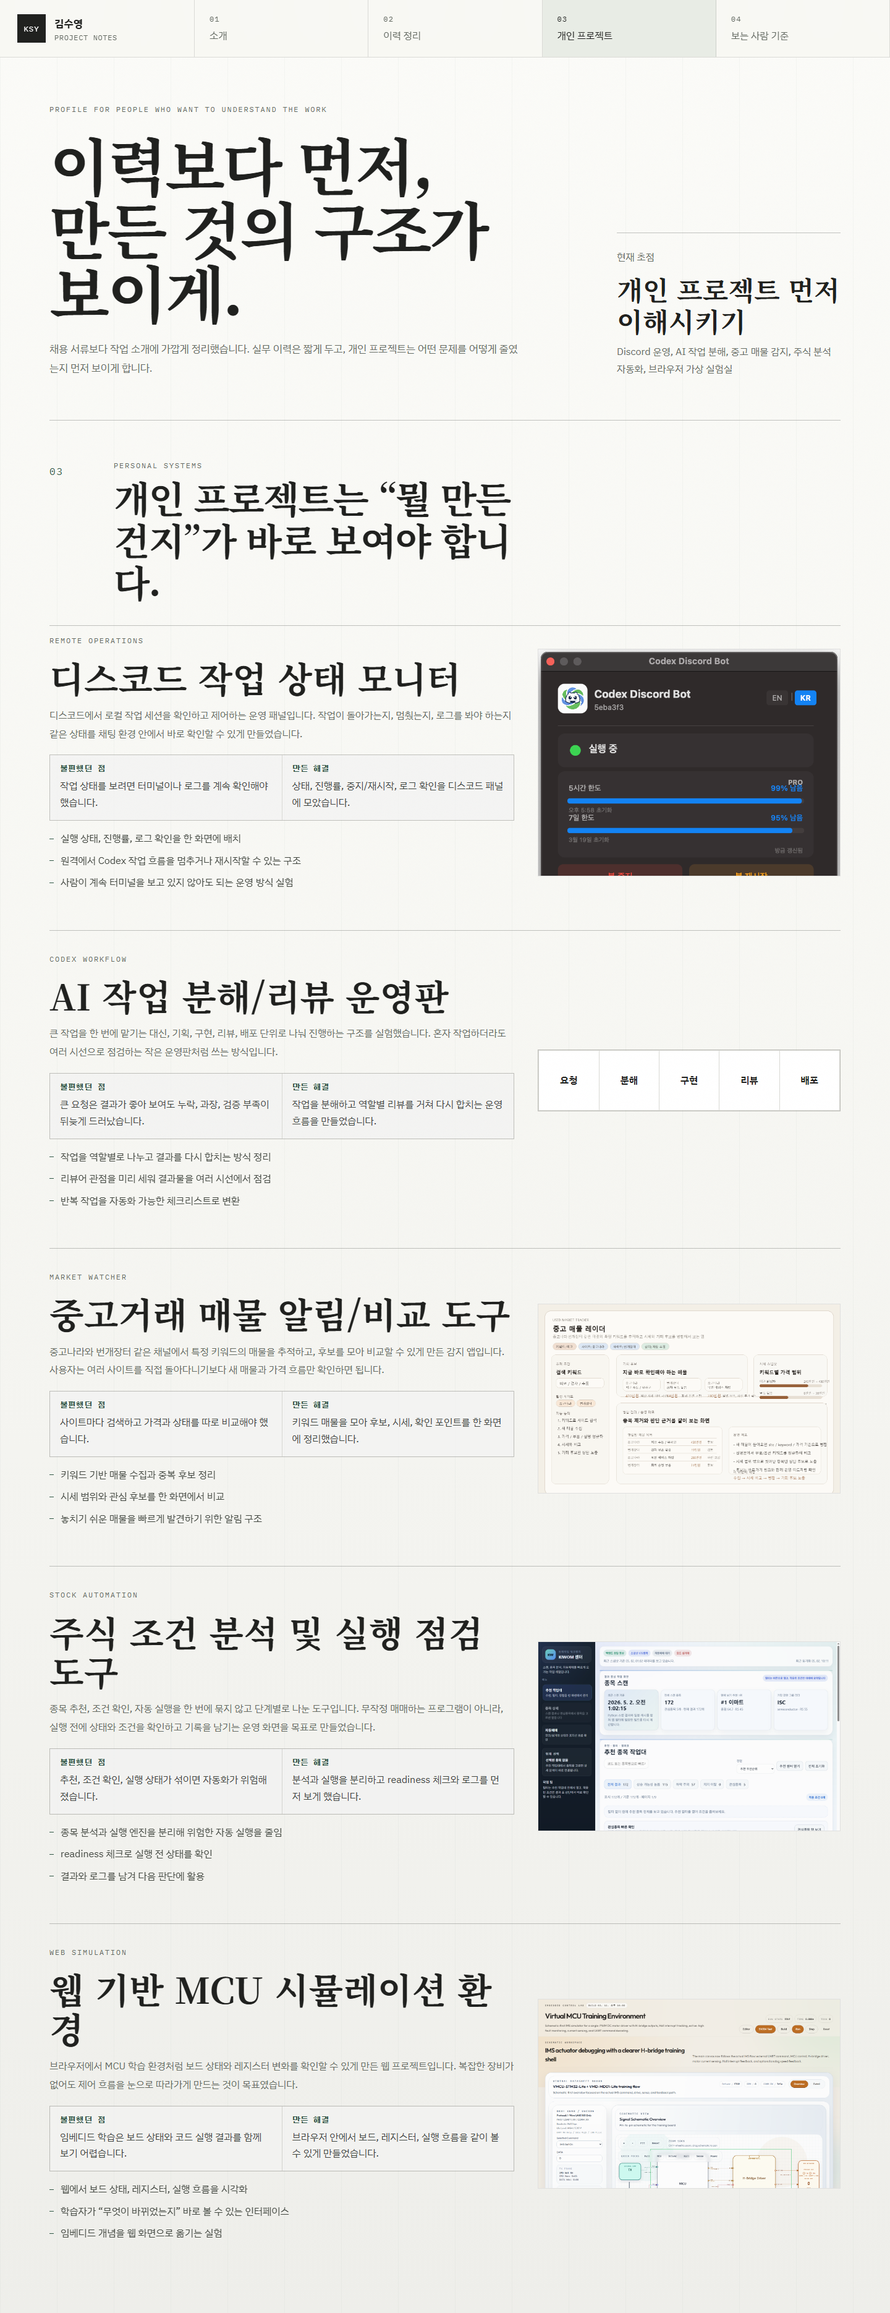
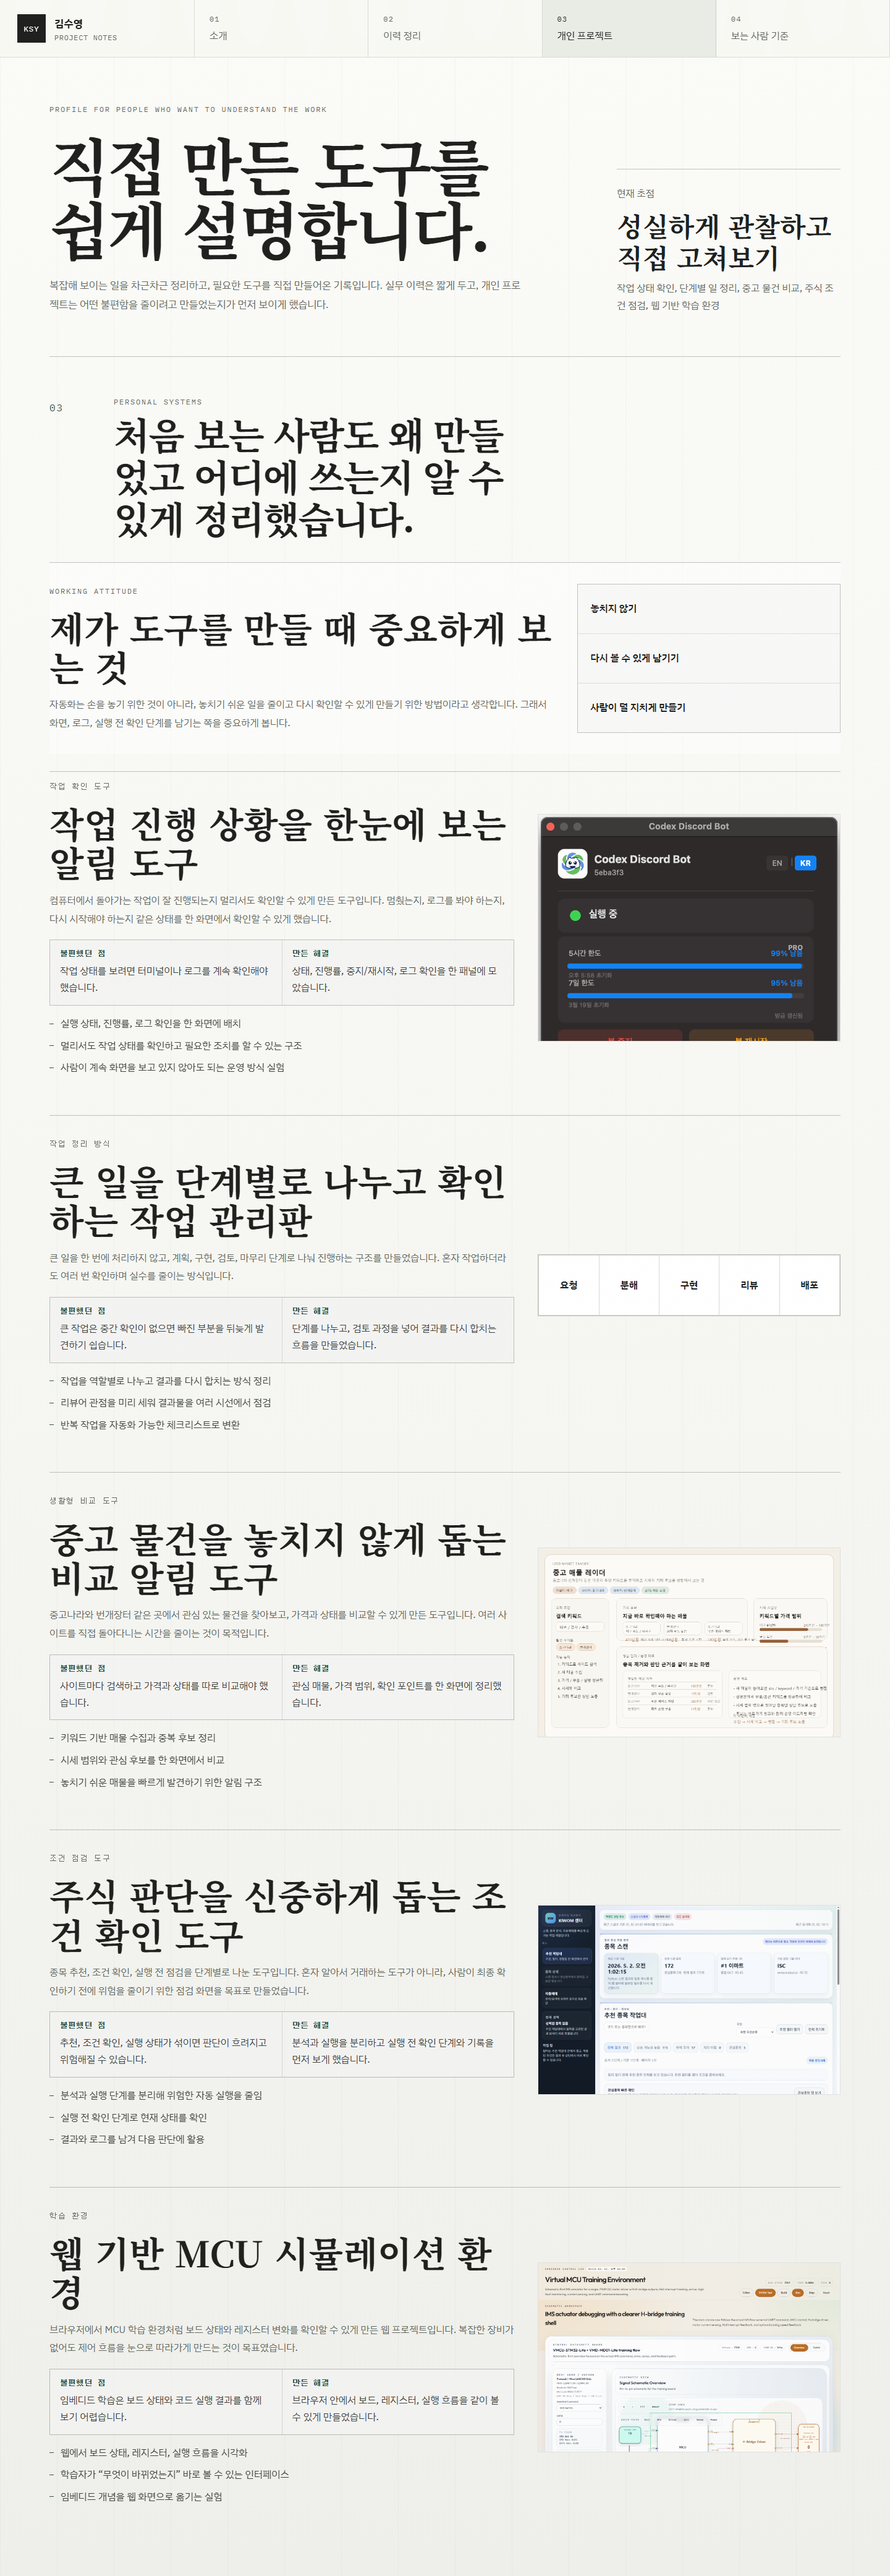
Make project page more family friendly

diff --git a/index.html b/index.html
@@ -11,7 +11,7 @@
     <meta property="og:title" content="김수영 | Project Notes" />
     <meta
       property="og:description"
-      content="이력서가 아니라 작업 소개용 프로필. Discord Agent, Codex 구조 생성, 중고거래 감지, 주식 분석 자동매매, 가상화 웹 개발 프로젝트를 정리했습니다."
+      content="이력서가 아니라 작업 소개용 프로필. 원격 작업 확인, 작업 분해, 중고 매물 비교, 주식 조건 점검, 웹 기반 학습 환경 프로젝트를 정리했습니다."
     />
     <meta property="og:type" content="website" />
     <meta property="og:image" content="./site_preview.png" />
@@ -59,17 +59,17 @@
       <section id="top" class="hero">
         <div class="hero-copy">
           <p class="eyebrow">profile for people who want to understand the work</p>
-          <h1>이력보다 먼저, 만든 것의 구조가 보이게.</h1>
+          <h1>직접 만든 도구를 쉽게 설명합니다.</h1>
           <p>
-            채용 서류보다 작업 소개에 가깝게 정리했습니다. 실무 이력은 짧게 두고, 개인 프로젝트는 어떤 문제를 어떻게 줄였는지 먼저
-            보이게 합니다.
+            복잡해 보이는 일을 차근차근 정리하고, 필요한 도구를 직접 만들어온 기록입니다. 실무 이력은 짧게 두고, 개인 프로젝트는
+            어떤 불편함을 줄이려고 만들었는지가 먼저 보이게 했습니다.
           </p>
         </div>
 
         <aside class="hero-note">
           <p>현재 초점</p>
-          <strong>개인 프로젝트 먼저 이해시키기</strong>
-          <span>Discord 운영, AI 작업 분해, 중고 매물 감지, 주식 분석 자동화, 브라우저 가상 실험실</span>
+          <strong>성실하게 관찰하고 직접 고쳐보기</strong>
+          <span>작업 상태 확인, 단계별 일 정리, 중고 물건 비교, 주식 조건 점검, 웹 기반 학습 환경</span>
         </aside>
       </section>
 
@@ -165,18 +165,34 @@
           <p class="panel-number">03</p>
           <div>
             <p class="eyebrow">personal systems</p>
-            <h2>개인 프로젝트는 “뭘 만든 건지”가 바로 보여야 합니다.</h2>
+            <h2>처음 보는 사람도 왜 만들었고 어디에 쓰는지 알 수 있게 정리했습니다.</h2>
           </div>
         </div>
 
         <div class="project-stack">
+          <article class="project-card values">
+            <div class="project-copy">
+              <p class="project-kicker">working attitude</p>
+              <h3>제가 도구를 만들 때 중요하게 보는 것</h3>
+              <p>
+                자동화는 손을 놓기 위한 것이 아니라, 놓치기 쉬운 일을 줄이고 다시 확인할 수 있게 만들기 위한 방법이라고 생각합니다.
+                그래서 화면, 로그, 실행 전 확인 단계를 남기는 쪽을 중요하게 봅니다.
+              </p>
+            </div>
+            <div class="value-list">
+              <span>놓치지 않기</span>
+              <span>다시 볼 수 있게 남기기</span>
+              <span>사람이 덜 지치게 만들기</span>
+            </div>
+          </article>
+
           <article class="project-card featured">
             <div class="project-copy">
-              <p class="project-kicker">remote operations</p>
-              <h3>디스코드 작업 상태 모니터</h3>
+              <p class="project-kicker">작업 확인 도구</p>
+              <h3>작업 진행 상황을 한눈에 보는 알림 도구</h3>
               <p>
-                디스코드에서 로컬 작업 세션을 확인하고 제어하는 운영 패널입니다. 작업이 돌아가는지, 멈췄는지, 로그를 봐야 하는지 같은
-                상태를 채팅 환경 안에서 바로 확인할 수 있게 만들었습니다.
+                컴퓨터에서 돌아가는 작업이 잘 진행되는지 멀리서도 확인할 수 있게 만든 도구입니다. 멈췄는지, 로그를 봐야 하는지,
+                다시 시작해야 하는지 같은 상태를 한 화면에서 확인할 수 있게 했습니다.
               </p>
               <dl class="proof-list">
                 <div>
@@ -185,36 +201,36 @@
                 </div>
                 <div>
                   <dt>만든 해결</dt>
-                  <dd>상태, 진행률, 중지/재시작, 로그 확인을 디스코드 패널에 모았습니다.</dd>
+                  <dd>상태, 진행률, 중지/재시작, 로그 확인을 한 패널에 모았습니다.</dd>
                 </div>
               </dl>
               <ul>
                 <li>실행 상태, 진행률, 로그 확인을 한 화면에 배치</li>
-                <li>원격에서 Codex 작업 흐름을 멈추거나 재시작할 수 있는 구조</li>
-                <li>사람이 계속 터미널을 보고 있지 않아도 되는 운영 방식 실험</li>
+                <li>멀리서도 작업 상태를 확인하고 필요한 조치를 할 수 있는 구조</li>
+                <li>사람이 계속 화면을 보고 있지 않아도 되는 운영 방식 실험</li>
               </ul>
             </div>
             <figure class="project-visual">
-              <img src="./assets/discord_agent_panel_kr.png" alt="Discord Agent 운영 패널" />
+              <img src="./assets/discord_agent_panel_kr.png" alt="작업 상태 알림 도구 화면" />
             </figure>
           </article>
 
           <article class="project-card">
             <div class="project-copy">
-              <p class="project-kicker">codex workflow</p>
-              <h3>AI 작업 분해/리뷰 운영판</h3>
+              <p class="project-kicker">작업 정리 방식</p>
+              <h3>큰 일을 단계별로 나누고 확인하는 작업 관리판</h3>
               <p>
-                큰 작업을 한 번에 맡기는 대신, 기획, 구현, 리뷰, 배포 단위로 나눠 진행하는 구조를 실험했습니다. 혼자 작업하더라도
-                여러 시선으로 점검하는 작은 운영판처럼 쓰는 방식입니다.
+                큰 일을 한 번에 처리하지 않고, 계획, 구현, 검토, 마무리 단계로 나눠 진행하는 구조를 만들었습니다. 혼자 작업하더라도
+                여러 번 확인하며 실수를 줄이는 방식입니다.
               </p>
               <dl class="proof-list">
                 <div>
                   <dt>불편했던 점</dt>
-                  <dd>큰 요청은 결과가 좋아 보여도 누락, 과장, 검증 부족이 뒤늦게 드러났습니다.</dd>
+                  <dd>큰 작업은 중간 확인이 없으면 빠진 부분을 뒤늦게 발견하기 쉽습니다.</dd>
                 </div>
                 <div>
                   <dt>만든 해결</dt>
-                  <dd>작업을 분해하고 역할별 리뷰를 거쳐 다시 합치는 운영 흐름을 만들었습니다.</dd>
+                  <dd>단계를 나누고, 검토 과정을 넣어 결과를 다시 합치는 흐름을 만들었습니다.</dd>
                 </div>
               </dl>
               <ul>
@@ -223,7 +239,7 @@
                 <li>반복 작업을 자동화 가능한 체크리스트로 변환</li>
               </ul>
             </div>
-            <div class="process-map" aria-label="Codex 작업 구조 예시">
+            <div class="process-map" aria-label="작업 분해와 검토 흐름 예시">
               <span>요청</span>
               <span>분해</span>
               <span>구현</span>
@@ -234,11 +250,11 @@
 
           <article class="project-card">
             <div class="project-copy">
-              <p class="project-kicker">market watcher</p>
-              <h3>중고거래 매물 알림/비교 도구</h3>
+              <p class="project-kicker">생활형 비교 도구</p>
+              <h3>중고 물건을 놓치지 않게 돕는 비교 알림 도구</h3>
               <p>
-                중고나라와 번개장터 같은 채널에서 특정 키워드의 매물을 추적하고, 후보를 모아 비교할 수 있게 만든 감지 앱입니다.
-                사용자는 여러 사이트를 직접 돌아다니기보다 새 매물과 가격 흐름만 확인하면 됩니다.
+                중고나라와 번개장터 같은 곳에서 관심 있는 물건을 찾아보고, 가격과 상태를 비교할 수 있게 만든 도구입니다. 여러 사이트를
+                직접 돌아다니는 시간을 줄이는 것이 목적입니다.
               </p>
               <dl class="proof-list">
                 <div>
@@ -247,7 +263,7 @@
                 </div>
                 <div>
                   <dt>만든 해결</dt>
-                  <dd>키워드 매물을 모아 후보, 시세, 확인 포인트를 한 화면에 정리했습니다.</dd>
+                  <dd>관심 매물, 가격 범위, 확인 포인트를 한 화면에 정리했습니다.</dd>
                 </div>
               </dl>
               <ul>
@@ -263,36 +279,36 @@
 
           <article class="project-card">
             <div class="project-copy">
-              <p class="project-kicker">stock automation</p>
-              <h3>주식 조건 분석 및 실행 점검 도구</h3>
+              <p class="project-kicker">조건 점검 도구</p>
+              <h3>주식 판단을 신중하게 돕는 조건 확인 도구</h3>
               <p>
-                종목 추천, 조건 확인, 자동 실행을 한 번에 묶지 않고 단계별로 나눈 도구입니다. 무작정 매매하는 프로그램이 아니라,
-                실행 전에 상태와 조건을 확인하고 기록을 남기는 운영 화면을 목표로 만들었습니다.
+                종목 추천, 조건 확인, 실행 전 점검을 단계별로 나눈 도구입니다. 혼자 알아서 거래하는 도구가 아니라, 사람이 최종 확인하기 전에
+                위험을 줄이기 위한 점검 화면을 목표로 만들었습니다.
               </p>
               <dl class="proof-list">
                 <div>
                   <dt>불편했던 점</dt>
-                  <dd>추천, 조건 확인, 실행 상태가 섞이면 자동화가 위험해졌습니다.</dd>
+                  <dd>추천, 조건 확인, 실행 상태가 섞이면 판단이 흐려지고 위험해질 수 있습니다.</dd>
                 </div>
                 <div>
                   <dt>만든 해결</dt>
-                  <dd>분석과 실행을 분리하고 readiness 체크와 로그를 먼저 보게 했습니다.</dd>
+                  <dd>분석과 실행을 분리하고 실행 전 확인 단계와 기록을 먼저 보게 했습니다.</dd>
                 </div>
               </dl>
               <ul>
-                <li>종목 분석과 실행 엔진을 분리해 위험한 자동 실행을 줄임</li>
-                <li>readiness 체크로 실행 전 상태를 확인</li>
+                <li>분석과 실행 단계를 분리해 위험한 자동 실행을 줄임</li>
+                <li>실행 전 확인 단계로 현재 상태를 확인</li>
                 <li>결과와 로그를 남겨 다음 판단에 활용</li>
               </ul>
             </div>
             <figure class="project-visual compact">
-              <img src="./assets/kiwom_scan_overview.png" alt="주식 분석 및 자동매매 워크벤치 화면" />
+              <img src="./assets/kiwom_scan_overview.png" alt="주식 조건 확인 도구 화면" />
             </figure>
           </article>
 
           <article class="project-card">
             <div class="project-copy">
-              <p class="project-kicker">web simulation</p>
+              <p class="project-kicker">학습 환경</p>
               <h3>웹 기반 MCU 시뮬레이션 환경</h3>
               <p>
                 브라우저에서 MCU 학습 환경처럼 보드 상태와 레지스터 변화를 확인할 수 있게 만든 웹 프로젝트입니다. 복잡한 장비가 없어도
@@ -339,7 +355,7 @@
           <article>
             <p class="review-role">일반인</p>
             <h3>전문 용어보다 “그래서 뭐가 편해졌는지”가 먼저 보여야 합니다.</h3>
-            <p>중고거래 감지, 디스코드 운영, 자동매매처럼 생활 속 행동으로 번역되는 문장을 앞에 둡니다.</p>
+            <p>중고 물건 비교, 작업 상태 확인, 실행 전 점검처럼 생활 속 행동으로 번역되는 문장을 앞에 둡니다.</p>
           </article>
           <article>
             <p class="review-role">프리랜서 고용인</p>

diff --git a/styles.css b/styles.css
@@ -351,6 +351,12 @@ img {
   padding-top: 12px;
 }
 
+.project-card.values {
+  grid-template-columns: minmax(0, 0.92fr) minmax(280px, 0.48fr);
+  align-items: stretch;
+  background: rgba(255, 255, 255, 0.48);
+}
+
 .project-copy {
   display: grid;
   gap: 16px;
@@ -384,6 +390,24 @@ img {
   width: 7px;
   height: 1px;
   background: var(--accent);
+}
+
+.value-list {
+  display: grid;
+  align-content: stretch;
+  gap: 1px;
+  background: var(--line);
+  border: 1px solid var(--line);
+}
+
+.value-list span {
+  display: grid;
+  align-items: center;
+  min-height: 74px;
+  padding: 18px 20px;
+  background: rgba(255, 255, 255, 0.78);
+  color: var(--text);
+  font-weight: 600;
 }
 
 .proof-list {
@@ -492,6 +516,7 @@ img {
   .intro-grid,
   .career-item,
   .project-card,
+  .project-card.values,
   .review-grid {
     grid-template-columns: 1fr;
   }
@@ -518,7 +543,7 @@ img {
   }
 
   .hero h1 {
-    font-size: clamp(2.55rem, 14vw, 4.15rem);
+    font-size: clamp(2.36rem, 12vw, 3.85rem);
   }
 
   .hero-copy {
@@ -549,6 +574,15 @@ img {
   .project-card {
     gap: 20px;
     padding: 28px 0;
+  }
+
+  .project-card.values {
+    grid-template-columns: 1fr;
+    background: transparent;
+  }
+
+  .project-card.values h3 {
+    font-size: clamp(1.7rem, 8.8vw, 2.55rem);
   }
 
   .project-visual {
